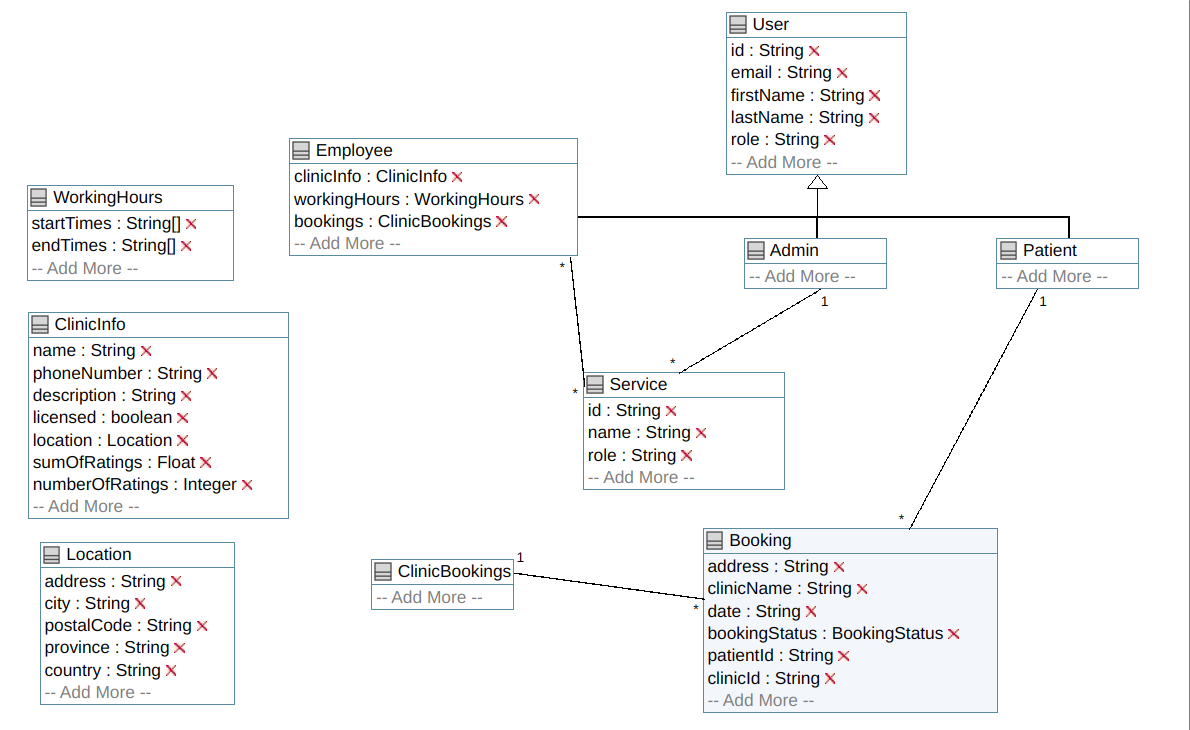
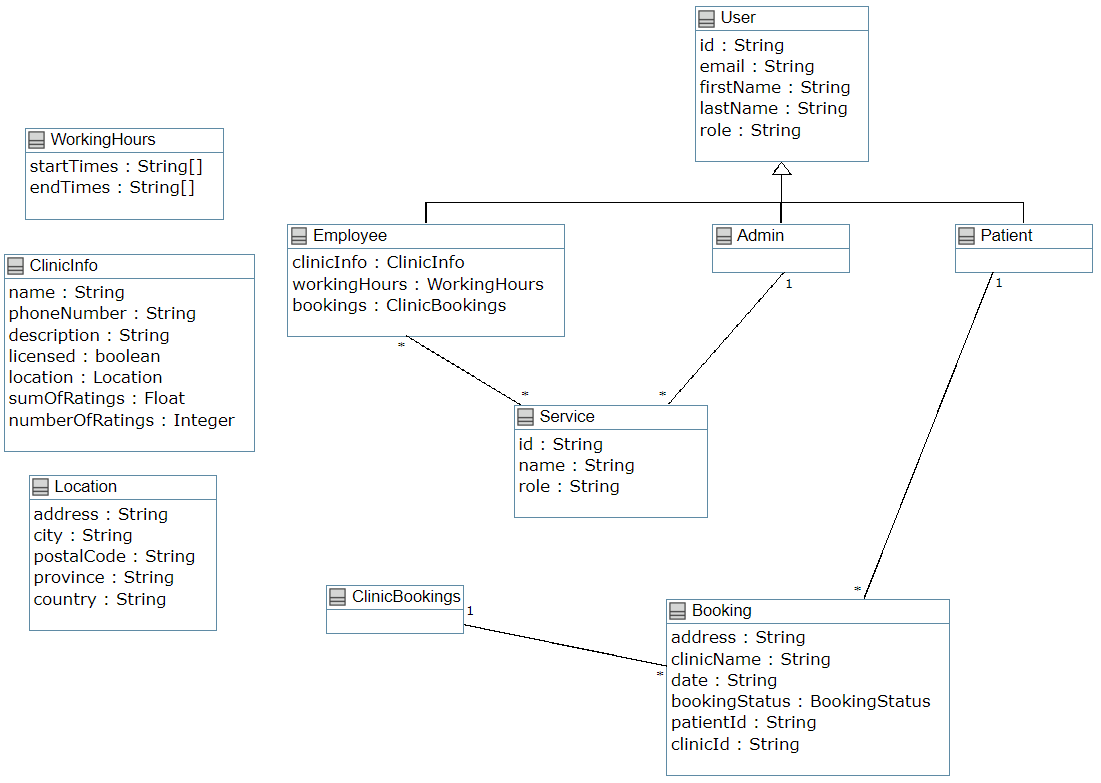
Updated Report with title page, intro and UML diagram

diff --git a/REPORT.md b/REPORT.md
@@ -30,20 +30,46 @@
 
 ## Introduction
 
-Our team developed an app to address the need for people to know wait times at nearby walk-in clinics without having to leave their home. It also allows users to know the services offered by nearby walk-in clinics and allows them to check-in/book appointments at the clinic of their choice. The project was divided into 4 deliverables: Account Creation, Admin Functionality, Employee (Clinic) Functionality and Patient Functionality.
+Our team developed an app called `Clinigo` to address the need for people to know wait times at nearby walk-in clinics without having to leave their home. It allows users to know the services offered by nearby walk-in clinics and allows them to check-in/book appointments at the clinic of their choice. The project was divided into 4 deliverables: Account Creation, Admin Functionality, Employee (Clinic) Functionality and Patient Functionality. 
+
+The first deliverable consisted in developing account creation for employees and patients, while the admin login was harcoded based on the system requirements. Firebase Authentication as well as Firebase Realtime Database were used for authentication and storing new users. 
+
+The second deliverable consisted in allowing the admin to manage users and services. The admin is allowed to delete employee and patient accounts, as well as create, update and delete services that clinics can offer.
+
+The third deliverable consisted in allowing employees to create a profile for their clinic. The clinic therefore has access to add services from the existing services (created by the admin), update their working hours and edit their profile information.
+
+The fourth and final deliverable consisted in allowing patients to search for walk-in clinics, book/check-in to the clinics of their choice and rate clinics from 1 to 5. The patient can search by using different filters: Address, City, Working Hours and Types of Services Provided. The patient can also choose to book a date as an appointment or check-in to the clinic immediately. Before doing so, the patient has access to the current day's average wait-times to make an informed decision. Finally, the patient can remove bookings or check-out from bookings as well as submit a rating and optional comment.
 
 ## UML Class Diagram
 
+All important assumptions made throughout the life of this project are presented below:
+
+- An employee account is associated to 1 clinic account (they are the same).
+- Bookings are made for a day of the week in a yearly calendar rather than a time of day.
+- A patient can only book or check-in to 1 clinic/day.
+- A patient can rate a clinic however many times they want, and leaving comments is optional.
+
+The final UML Class Diagram for the project is shown below and can be found on [Umple](https://cruise.eecs.uottawa.ca/umpleonline/umple.php?model=191019783621124).
+
+<p align="center">
+    <img src="screenshots/UML_Deliverable04.png"/> 
+</p>
+
 ## Task Distribution
 
-| Name          | Siraj                             | Eric                    | Adel                          | Lev                                 | Marc               |
-|---------------|-----------------------------------|-------------------------|-------------------------------|-------------------------------------|--------------------|
-| Deliverable 1 | UML Diagram                       | Firebase Authentication | Sign up feature               | Sign-in feature                     | Model Creation     |
-| Deliverable 2 | Admin manage users functionality  | Circle CI integration   | Error Handling                | Admin manage services functionality | Unit Tests         |
-| Deliverable 3 | Updating models and UML           | Manage Profile Services | Service Provider Availability | Unit tests                          | Clinic Information |
-| Deliverable 4 | Preparing presentation and report | Rating Clinics          | Clinic Search                 | Updating models and UML             | Booking/Check-in   |
+The table below shows the general task distribution that was used for each deliverable. However, the team worked closely for each deliverable and some features were implemented/revised by multiple team members. For more details, please see the [projects](https://github.com/professor-forward/project-camel/projects) on Github, where all issues were created, assigned and completed.
+
+| Team Members |      Deliverable 1      |     Deliverable 2     |      Deliverable 3      |           Deliverable 4           |
+|:------------:|:-----------------------:|:---------------------:|:-----------------------:|:---------------------------------:|
+|     Siraj    |       UML Diagram       |   Admin Manage Users  | Updating Models and UML | Preparing Presentation and Report |
+|     Eric     | Firebase Authentication | Circle CI Integration |  Manage Clinic Services |           Rating Clinics          |
+|     Adel     |         Sign-up         |     Error Handling    |   Clinic Working Hours  |           Clinic Search           |
+|      Lev     |         Sign-in         | Admin Manage Services |        Unit Tests       |      Updating Models and UML      |
+|     Marc     |      Model Creation     |       Unit Tests      |    Clinic Information   |      Booking/Check-In Feature     |
 
 ## Screenshots
+
+The screenshots for all deliverables are presented in this section.
 
 1. Home Activity
 
